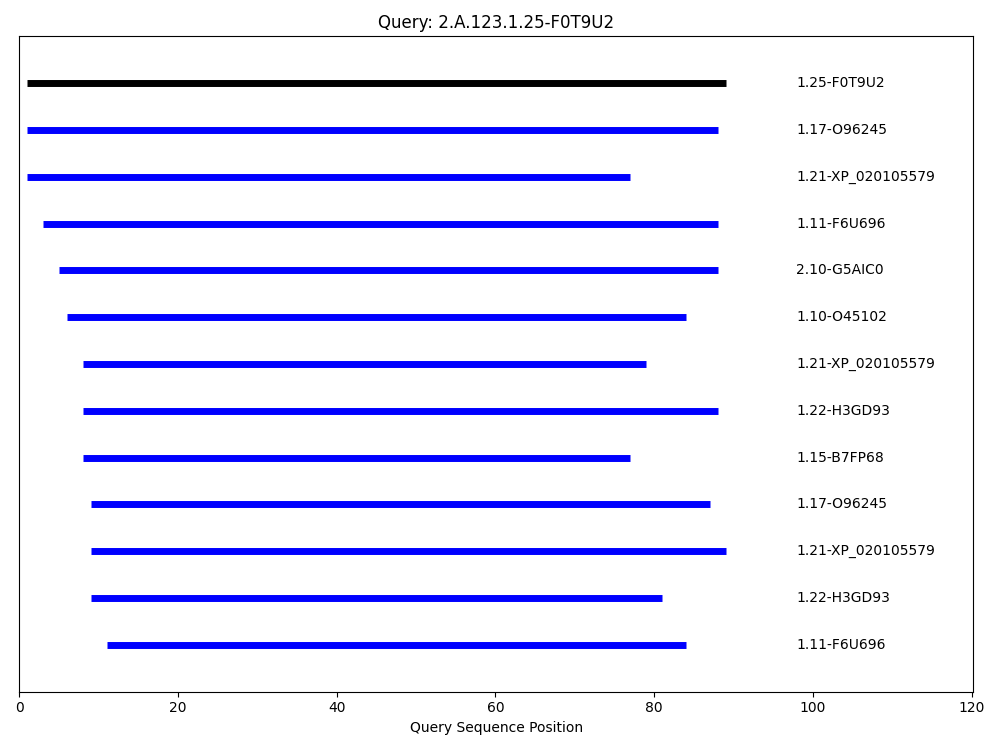
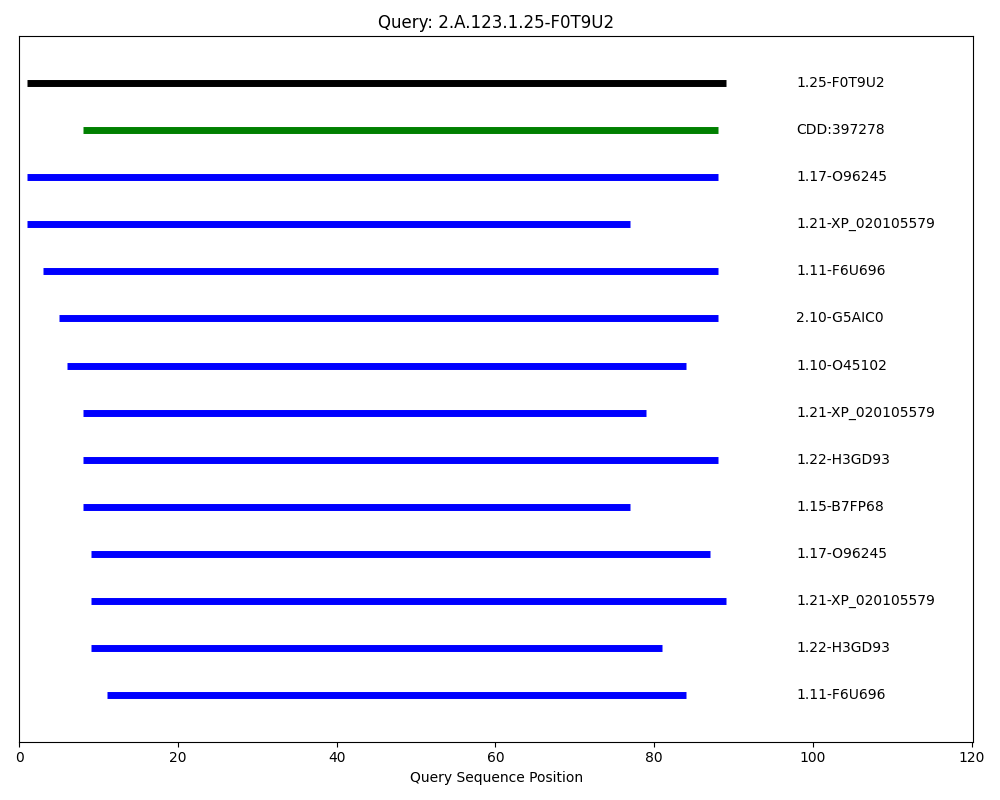
add cdd comparison

diff --git a/first_task_graph.py b/first_task_graph.py
@@ -2,24 +2,29 @@ import pandas as pd
 import matplotlib.pyplot as plt
 import os
 
+# Load subject match data
 df = pd.read_csv("first_task_output.tsv", sep="\t")
 df = df.iloc[:, :-3]
 
+# Load CDD data
+cdd_df = pd.read_csv("cdd_output.tsv", sep="\t")
+
+# Filter for significant CDD hits only
+cdd_df = cdd_df[cdd_df["evalue"] < 1e-5]
+cdd_df = cdd_df.sort_values(by=["Query ID", "q. start"])
+
 # extract the reversed match for graphing
 reversed_df = df.copy()
-
 reversed_df["Query ID"] = df["Subject ID"]
 reversed_df["Subject ID"] = df["Query ID"]
-
 reversed_df["Query Length"] = df["Subject Length"]
 reversed_df["Subject Length"] = df["Query Length"]
-
 reversed_df["Left Pos"] = df["Subject Start"]
 reversed_df["Right Pos"] = df["Subject End"]
-
 reversed_df["Subject Start"] = df["Left Pos"]
 reversed_df["Subject End"] = df["Right Pos"]
 
+# combine and sort
 df_all = pd.concat([df, reversed_df], ignore_index=True)
 df_all = df_all.drop_duplicates()
 df_all = df_all.sort_values(by=["Query ID", "Left Pos"])
@@ -30,15 +35,17 @@ os.makedirs(out_dir, exist_ok=True)
 
 # for each query
 for query in df_all["Query ID"].unique():
-    # subset for current query
     subset = df_all[df_all["Query ID"] == query]
     length = subset["Query Length"].iloc[0]
+    
+    # Filter CDD annotations for this query
+    cdd_subset = cdd_df[cdd_df["Query ID"] == query]
 
-    fig, ax = plt.subplots(figsize=(10, 1.5 + 0.5 * len(subset)))
+    fig, ax = plt.subplots(figsize=(10, 1.5 + 0.5 * (len(subset) + len(cdd_subset))))
 
     # plot query sequence at the top
     ax.hlines(
-        y=len(subset) + 1,
+        y=len(subset) + len(cdd_subset) + 1,
         xmin=1,
         xmax=length,
         colors='black',
@@ -46,9 +53,21 @@ for query in df_all["Query ID"].unique():
     )
     # query label
     clean_query_id = query.replace("2.A.123.", "")
-    ax.text(length + length*0.1, len(subset) + 1, clean_query_id, va='center')
+    ax.text(length + length*0.1, len(subset) + len(cdd_subset) + 1, clean_query_id, va='center')
 
-    # plot subjects
+    # plot CDD lines on top of subject matches
+    for i, row in enumerate(reversed(list(cdd_subset.itertuples())), 1):
+        y_pos = len(subset) + i
+        ax.hlines(
+            y=y_pos, 
+            xmin=row._7, 
+            xmax=row._8, 
+            colors='green', 
+            linewidth=5
+        )
+        ax.text(length + length*0.1, y_pos, row._3, va='center', color='black')
+
+    # plot subject matches
     for i, row in enumerate(reversed(list(subset.itertuples())), 1):
         left_pos = row._5 
         right_pos = row._6  
@@ -60,11 +79,10 @@ for query in df_all["Query ID"].unique():
             colors='blue', 
             linewidth=5
         )
-        # subject label
         clean_subject_id = subject.replace("2.A.123.", "")
         ax.text(length + length*0.1, i, clean_subject_id, va='center')
 
-    ax.set_ylim(0, len(subset) + 2)
+    ax.set_ylim(0, len(subset) + len(cdd_subset) + 2)
     ax.set_xlim(0, length + length*0.35)
     ax.set_xlabel("Query Sequence Position")
     ax.set_yticks([])

diff --git a/cdd_output.py b/cdd_output.py
@@ -1,0 +1,21 @@
+import csv
+
+input_file = "cdd.out"
+output_file = "cdd_output.tsv"
+
+columns = [
+    "Query ID", "query length", "CDD ID", "CDD length", "evalue", "bit score",
+    "q. start", "q. end", "% query coverage per hsp", "s. start", "s. end"
+]
+
+with open(input_file) as infile, open(output_file, "w", newline="") as outfile:
+    writer = csv.writer(outfile, delimiter="\t")
+    writer.writerow(columns)
+
+    for line in infile:
+        if line.startswith("#"):
+            continue
+
+        fields = line.strip().split("\t")
+        if len(fields) >= 11:
+            writer.writerow(fields[:11])
